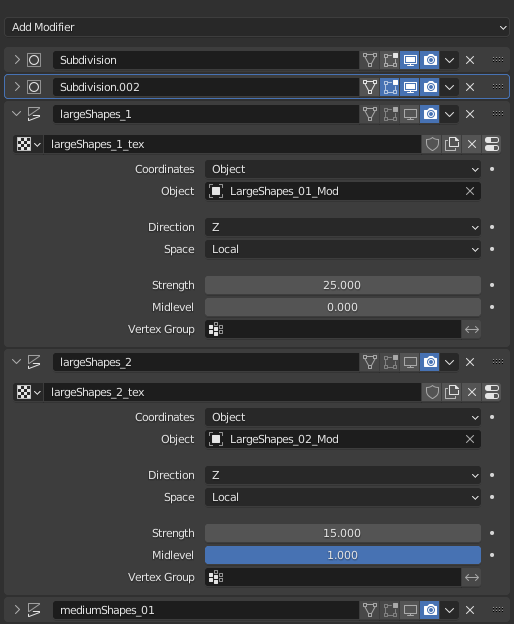
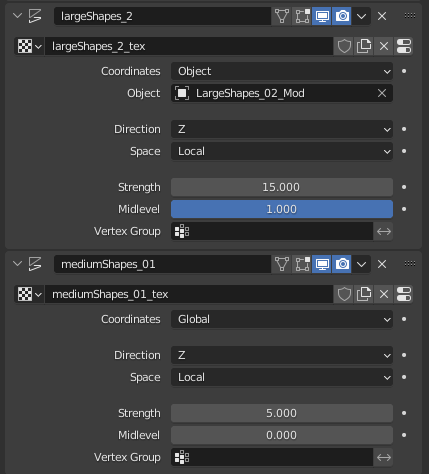
no message

Changed region(s): [[0.0, 0.0, 1.0, 1.0], [0.9394, 0.7384, 0.9697, 0.7679]]

diff --git a/Tutorials/CG_Landscapes/Basic/tutorial.md b/Tutorials/CG_Landscapes/Basic/tutorial.md
@@ -10,27 +10,36 @@ We can do this using blender displacement modifiers with procedural noise textur
 Terrain size : 1 km   
 Type : typical grasslands with forest areas  
 Time of day : clear evening   
-Reference images
+Reference images / mood-board
 
 ![Image](images/moodBoard.jpg)
 
-Since terrains are large make sure to set camera far clipping to a large value and scene SI units to metric.
+So now for production, since terrains are large make sure to set camera far clipping to a large value and scene SI units to metric.
 
 ![Image](images/01.png) ![Image](images/02.png)
 
-Add a new plane of 1km, rename it to Terrain, and add some subdivisions using subdivision modifier, I have raised poly count to 1k to get nice large details.
+Add a new plane of 1-km, rename it to **Terrain**, and add some subdivisions using subdivision modifier, I have raised poly count to 1-k to get nice large details.
 
 ![Image](images/03.png) ![Image](images/04.png)
 
-So now far actual displacement, **_the way for creating terrain shapes is such that we begin by creating large shapes first than moving on to medium and finally adding small fine details._**
+So now far actual displacement, **_the way for creating terrain shapes is such that we begin by creating large shapes first than moving on to medium and finally adding small fine details, there are other ways to do this, but here I will use displacement modifiers with procedural textures_**
 
-So I began by adding displacement modifiers step by step with procedural textures for displacement, defining large to medium terrain shapes and only adding a new modifier when I am happy with results of first, I am using a mix of voronoi and perlin textures with varying parameters.
+Select **terrain** game object and from modifiers tab add a new displacement modifier, rename it to **large shapes**.
+Add a new texture for this modifier, rename it to large **large shapes_tex**.
+You can play with settings of both the displacement modifier and it's corresponding texture, or just copy mine.
+
+![Image](images/04a.png) ![Image](images/04b.png)
+
+You may have notice by default we cannot randomize noise for some fixed values however there is a fix to it, add a new empty **Add > Empty > PlainAxis** rename it to **largeShapes_01_mod**, select **large shapes** displacement modifier, change coordinates to **object** and from **Object** drop down select **largeShapes_01_mod**.  
+Now move, rotate, scale **largeShapes_01_mod** to randomize terrain shape.
+
+![Image](images/04c.png) 
+
+Now I have created 2 more displacement modifiers, to add some variation and to create medium terrain shapes, 
 
 ![Image](images/05.png) 
 
-You may have noticed that we cannot randomize noise generated by procedural textures, but there is a work around...create a new empty and set your displacement modifier (the one you want to randomize) to use object coordinates and set object to the empty you created, now move, rotate or scale to randomize corresponding displacement modifier.
-
-I have also added a average human size cube to get judgement about terrain.
+I have also added a average human size **(Dimensions x = 0.25m y = 0.25m z = 1.8m)** cube to get judgement about terrain.
 
 ![Image](images/06.png) 
 
@@ -44,6 +53,65 @@ And there you have it a procedural terrain.
 
 ### Creating a height map & importing in unity
 
+**Creating a height map is easy, I will you through the process step by step.**
+
+1. Open the blender file from last part or (final.blend) from project files, from output properties tab, set format settings as...
+
+   ![Image](images/heightMap/00.png)
+
+2. Create a new camera, set it's mode to orthographic and set the settings as follows...
+
+   ![Image](images/heightMap/01.png)
+
+3. Position the camera right above the terrain center, go to camera view (**view > camera > active camera**), make sure entire terrain is completly visible and there is no clipping and that terrain is entirly covered by camera.
+
+   ![Image](images/heightMap/02.png)
+   ![Image](images/heightMap/03.png)
+
+4. Now we will create a height map, create a new shader, rename it to **heightMap** and replace default principled shader with emission shader.
+
+    ![Image](images/heightMap/04.png)
+
+   **_"A height map is a black and white image representation of terrain, where each pixel represents a position on terrain, black at value 0 being the lowest and white at value 1 the highest part of terrain."_**
+ 
+5. We only need the z-component of the vertices I.e height value, so to get the position of vertices add a new **geometry node** and a **seperate xyz** node, connect output of position from **geometry node** to vector input of **seperate xyz** node.
+
+   ![Image](images/heightMap/05.png)
+ 
+6. Ideally when rendering out a height map, the lowest part of mesh should have a height value of 0 and top height value should be calculated relative to lowest value, however blender is not a specialized terrain creation software and we need a work around.
+
+7. Add a new **Map to range** node, connect **z** output of **seperate xyz** to input value of **Map to range**.
+
+   ![Image](images/heightMap/06.png)
+
+8. Add a new **Add > Mesh > Plane** scale it up a bit, snap it to lowest most part of terrain and note its position's z value, and plug that into **Map to range** **from min value**, similarly snap the plane to top most vertex of terrain and plug position's z value to **from max value** of **Map to range**.
+Here are my values.
+
+   ![Image](images/heightMap/07.png)
+
+9. To make sure image is black and white completly in range 0 to 1 connect output of **Map to range** to a **ColorRamp** node and finally plug color output of **ColorRamp** to color input of **Emission shader**.
+
+   ![Image](images/heightMap/08.png)
+
+10. Now we need to change some settings in order to render a proper height map
+   * first switch to material view to view the current output of height map shader.
+   * from scene settings change rendering engine to cycles and samples to 1.
+   * Blender by default apply some view transformation to final image, however we only need the raw black and white image, so to get the raw image select **View Transform** to **Raw** in **Color Management** in render properties tab.
+
+     ![Image](images/heightMap/09.png)
+     ![Image](images/heightMap/10.png)
+
+11. My final material view...
+
+    ![Image](images/heightMap/11.png)
+
+12. From Outliner hide all objects from both scene and render views, except terrain and camera, finally hit f-12 to bake the height map, save the heigh map as .png with following settings.
+
+    ![Image](images/heightMap/12.png)
+
+13. Unity terrain system can only accept **.raw** file formats, so to convert **.png** to raw use some online image format conversion, however I have opened it in photoshop and saved as **photoshop raw**.
+
+14. 
 
 ### Creatign a splat-map and texturing
 In last tutorial we created a height map and imported into unity for testing, In this part we will create a splat map in blender and use it to texture out terrain in unity.
